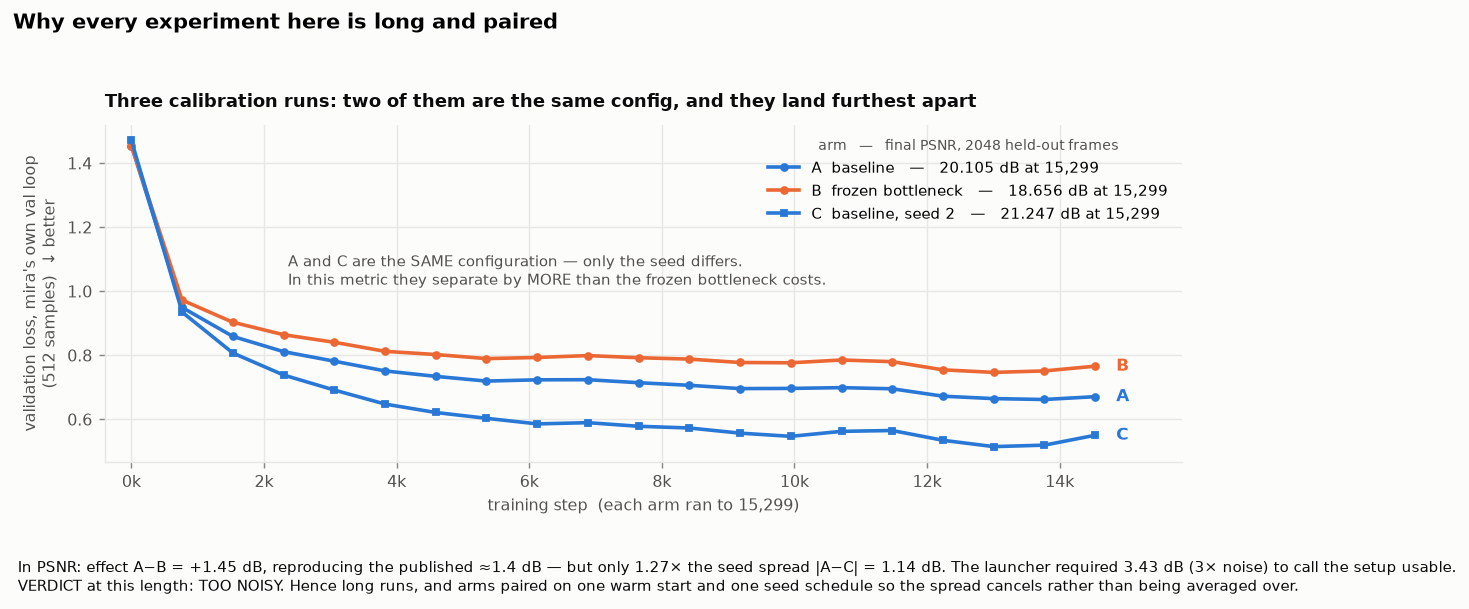
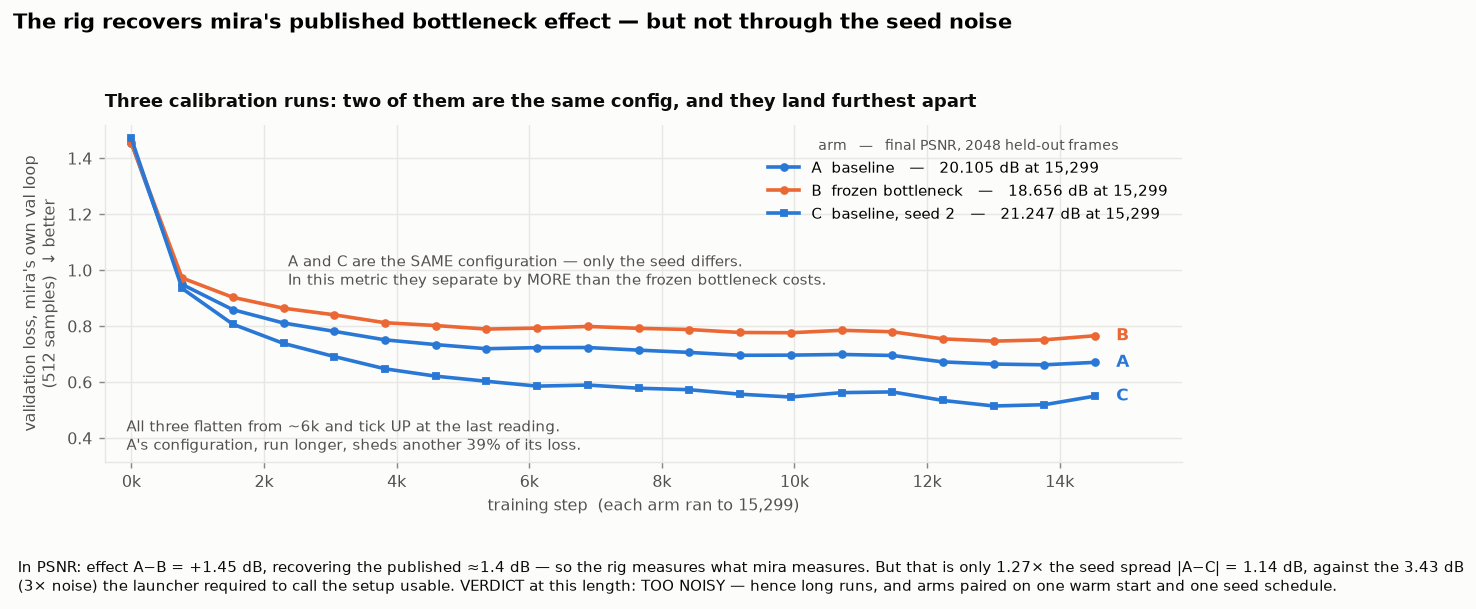
Lead 0b with what the calibration establishes, not with its history
The section opened on project history -- which runs kept checkpoints, why there
is no dB curve, what was tried first -- and arrived at its actual content three
paragraphs later. None of that is what a reader of the foundation needs.

It now opens on A, B and C and their final numbers in a table, then makes the two
claims in order:

  A - B = +1.4489 dB recovers mira's published ~1.4 dB for the same intervention
  (29.7 vs 28.3 frozen). A reduced-scale single-GPU rig landing a published
  effect at its published size is the basis for treating this as mira's
  counterpart, and it is why any later number here is worth reading.

  A - C = 1.142 dB between two runs of one configuration is the limit: 1.27x
  against the 3x the launcher required. So the rig sees a bottleneck-sized effect
  but cannot separate it from a seed unpaired -- hence long, paired runs.

The plateau trap is now called out as such: all three flatten from ~6k and tick
up at the final reading, and A's own configuration run longer sheds another 39%
of its loss. That is on the figure as well as in the prose, since it is the
single most misleading thing about these curves.

The checkpoint-retention history is one closing sentence explaining why PSNR sits
in the legend. Figure suptitle and footer carry the reproduce/cannot-resolve
framing instead of only the protocol conclusion.

diff --git a/postprocessing/plot_calibration.py b/postprocessing/plot_calibration.py
@@ -179,6 +179,8 @@ def build():
         loc="left",
     )
     ax.set_xlim(-400, max(r["step"] for r in curves["A_baseline"]["readings"]) * 1.09)
+    lo = min(r[METRIC] for arm in ARMS for r in curves[arm[0]]["readings"])
+    ax.set_ylim(bottom=lo - 0.20)  # headroom below the curves for the plateau-trap note
     leg = ax.legend(loc="upper right", fontsize=8.5, title="arm   —   final PSNR, 2048 held-out frames")
     leg.get_title().set_fontsize(8)
     leg.get_title().set_color(INK_SOFT)
@@ -191,11 +193,20 @@ def build():
         color=INK_SOFT,
         va="top",
     )
+    ax.annotate(
+        "All three flatten from ~6k and tick UP at the last reading.\n"
+        "A's configuration, run longer, sheds another 39% of its loss.",
+        xy=(0.02, 0.13),
+        xycoords="axes fraction",
+        fontsize=8.5,
+        color=INK_SOFT,
+        va="top",
+    )
     thousands(ax)
     spines(ax)
 
     fig.suptitle(
-        "Why every experiment here is long and paired",
+        "The rig recovers mira's published bottleneck effect \u2014 but not through the seed noise",
         x=0.008,
         ha="left",
         fontsize=11.5,
@@ -205,11 +216,11 @@ def build():
     fig.text(
         0.012,
         0.025,
-        f"In PSNR: effect A−B = {effect:+.2f} dB, reproducing the published ≈{expected:.1f} dB — but "
-        f"only {effect / noise:.2f}× the seed spread |A−C| = {noise:.2f} dB. The launcher required "
-        f"{3 * noise:.2f} dB (3× noise) to call the setup usable.\nVERDICT at this length: TOO NOISY. "
-        "Hence long runs, and arms paired on one warm start and one seed schedule so the spread "
-        "cancels rather than being averaged over.",
+        f"In PSNR: effect A−B = {effect:+.2f} dB, recovering the published ≈{expected:.1f} dB — so "
+        f"the rig measures what mira measures. But that is only {effect / noise:.2f}× the seed "
+        f"spread |A−C| = {noise:.2f} dB, against the {3 * noise:.2f} dB\n(3× noise) the launcher "
+        "required to call the setup usable. VERDICT at this length: TOO NOISY — hence long runs, "
+        "and arms paired on one warm start and one seed schedule.",
         fontsize=8.5,
         color=INK,
         va="bottom",

diff --git a/postprocessing/RESULTS.md b/postprocessing/RESULTS.md
@@ -107,48 +107,51 @@ Both are mira's own configs, so this is a config change and not a fork — train
 spatial where mira's 192× includes a 2× temporal reduction. This is the biggest single reason no
 absolute number on this page is comparable with the paper's.
 
-### 0b. The benchmark was calibrated before it was trusted — and it failed its own test
+### 0b. The rig reproduces mira's own bottleneck result — but cannot resolve it unpaired
 
 ![Three-arm calibration: effect size against seed noise](figures/calibration_three_arm.png)
 
-Before running any experiment: can this setup detect a bottleneck-sized change, and how big must a
-gap be before it means anything? Three runs of 15,299 steps — a baseline (**A**), the same thing
-with the bottleneck frozen at a random projection (**B**, a published ≈1.4 dB effect), and the
-baseline again with a different seed (**C**, the noise floor).
+Three runs of 15,299 steps, identical except for one thing each:
 
-What is plotted is mira's own validation loss, the per-step record these three arms kept, with each
-arm's final dB reading in the legend beside the arm it belongs to. These were the first runs in the
-project and they ran under the stock `checkpoint_keep_recent: 1`, so one checkpoint per arm
-survived and the dB are endpoints rather than curves. Every run after this one keeps its
-checkpoints and is scored densely — the baseline run has 34 PSNR readings, each warm-start arm
-25 — so this is the only figure on the page without a dB curve, and both quantities agree here
-anyway.
+| | configuration | final PSNR |
+|---|---|---|
+| **A** | the baseline codec | 20.105 dB |
+| **B** | the same, bottleneck frozen at a random projection | 18.656 dB |
+| **C** | the same as A, different seed | 21.247 dB |
 
-Colour follows the *configuration*, not the run: A and C are the same configuration, so they share
-a hue and differ by marker. Two blue curves landing far apart, with the orange intervention
-*between* them, is the finding.
+**A − B is the reproduction, and it lands.** Freezing the bottleneck at a random projection is an
+intervention mira published a number for: 29.7 dB learned against 28.3 frozen, a drop of ≈1.4 dB
+(their table `tab:exp-bottleneck`). Here it costs **+1.4489 dB**. A reduced-scale single-GPU rig
+recovering a published effect at its published size is the basis for treating this as mira's
+counterpart rather than merely something shaped like it — and it is the reason every later number
+on this page is worth reading at all.
 
-- **The effect size reproduced.** A − B = **+1.4489 dB** against mira's published ≈1.4 dB (their
-  table `tab:exp-bottleneck`: 29.7 learned vs 28.3 random frozen). The benchmark can see a
-  bottleneck-sized change.
-- **The comparison could not resolve it.** Two runs of the *identical* configuration, differing
-  only in seed, came out **1.142 dB** apart. The launcher's own criterion for calling the setup
-  usable was effect > 3 × noise = 3.426 dB. Ratio achieved: **1.27×**. Verdict: **TOO NOISY**.
-- **The validation curves say the same thing independently, and slightly worse.** In loss the seed
-  gap is *larger* than the intervention: |A−C| = 0.1205 against B−A = 0.0952. Two runs of one
-  configuration differ by more than freezing the bottleneck costs.
-- **All three had flattened, and the flatness meant nothing.** Each arm's trailing trend is an
-  order of magnitude shallower than its opening one (A: −0.0078 loss per 1k steps over the last
-  five readings against −0.0723 over the first half), so on the curve alone these look settled. But
-  that residual slope is smaller than the reading-to-reading wobble in every arm — the last six
-  readings span 0.037–0.050 — so the curve cannot tell you whether the descent has stopped, and all
-  three ticked *up* at the final reading. What settles it is **the baseline run** — A's configuration
-  taken to 272,000 steps. It sits in the same flat band over its own steps 9k–20k (loss
-  0.6427–0.6988) and then keeps going to 0.2076: **39% of its entire descent** was still ahead of
-  it at the point A, B and C stopped, worth **4.762 dB** of PSNR. Flat at 15,000 steps is not
-  converged at 15,000 steps.
+**A − C is the limit, and it is larger than it should be.** A and C are the *same* configuration
+differing only in seed, and they came out **1.142 dB** apart. The launcher's own criterion for
+calling the setup usable was effect > 3 × noise = 3.426 dB; the ratio achieved was **1.27×**.
+Verdict: **TOO NOISY**. Validation loss agrees independently and slightly worse — the seed gap
+|A−C| = 0.1205 exceeds the intervention B−A = 0.0952.
 
-**A tempting substitute that does not work.** Since A and **the baseline run** (0c) are the same
+So the rig can see a bottleneck-sized effect but a single short unpaired comparison cannot separate
+it from a seed. Everything after this section uses **long runs** and **arms warm-started from one
+checkpoint on an identical per-chunk seed schedule**, so the seed spread lands on both arms and
+cancels rather than being averaged over. Section 0d is the direct evidence that it does cancel.
+
+Colour follows the *configuration*, not the run: A and C share a hue and differ by marker. Two blue
+curves landing far apart with the orange intervention *between* them is the finding.
+
+**Bonus trap: these curves nearly plateau and then start improving again.** Each arm's trailing
+trend is an order of magnitude shallower than its opening one (A: −0.0078 loss per 1k steps over
+the last five readings against −0.0723 over the first half), and all three tick *up* at the final
+reading. On the curve alone they look finished. They are not: the residual slope is smaller than
+the reading-to-reading wobble in every arm — the last six readings span 0.037–0.050 — so the curve
+cannot tell you whether the descent has stopped. **The baseline run** settles it, being A's
+configuration taken to 272,000 steps: it sits in this same flat band over its own steps 9k–20k
+(loss 0.6427–0.6988) and then keeps going to 0.2076. **39% of its entire descent, worth 4.762 dB,
+was still ahead of it** at the point A, B and C stopped. Flat at 15,000 steps is not converged at
+15,000 steps, and 0c and 0d are both consequences of that.
+
+**One tempting substitute that does not work.** Since A and the baseline run are the same
 configuration, the baseline run looks like a free extra replicate of A — and its reading at step
 16,000, **20.123 dB**, sits almost exactly on **A's 20.105** at 15,299. Treating that as a second
 measurement of the noise floor would be wrong. A finished *annealed*, having cosine-decayed to
@@ -156,11 +159,9 @@ measurement of the noise floor would be wrong. A finished *annealed*, having cos
 16,000. Same configuration and nearly the same step, but different learning rates, so the
 near-agreement is a coincidence and not a replicate.
 
-This is the most useful negative result in the project, and it is why the protocol looks the way it
-does. Unpaired comparisons at short run lengths are worthless here. Everything after this uses
-**long runs** and **paired arms warm-started from one checkpoint on an identical per-chunk seed
-schedule**, so the seed spread cancels instead of being averaged over. That the paired arms later
-traced the *same* dip-and-recovery shape (section 1) is the evidence that the cancellation works.
+The figure plots mira's own validation loss because that is the per-step record these three runs
+kept; their PSNR exists only at the final step, which is why it appears in the legend rather than
+as a second curve.
 
 ### 0c. Training the baseline to its elbow
 
